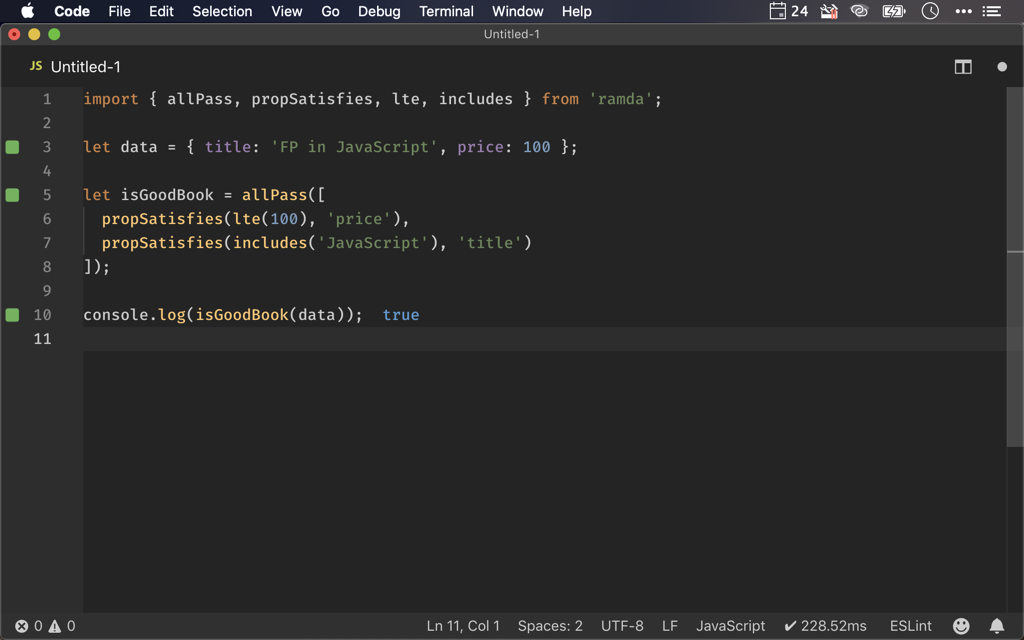
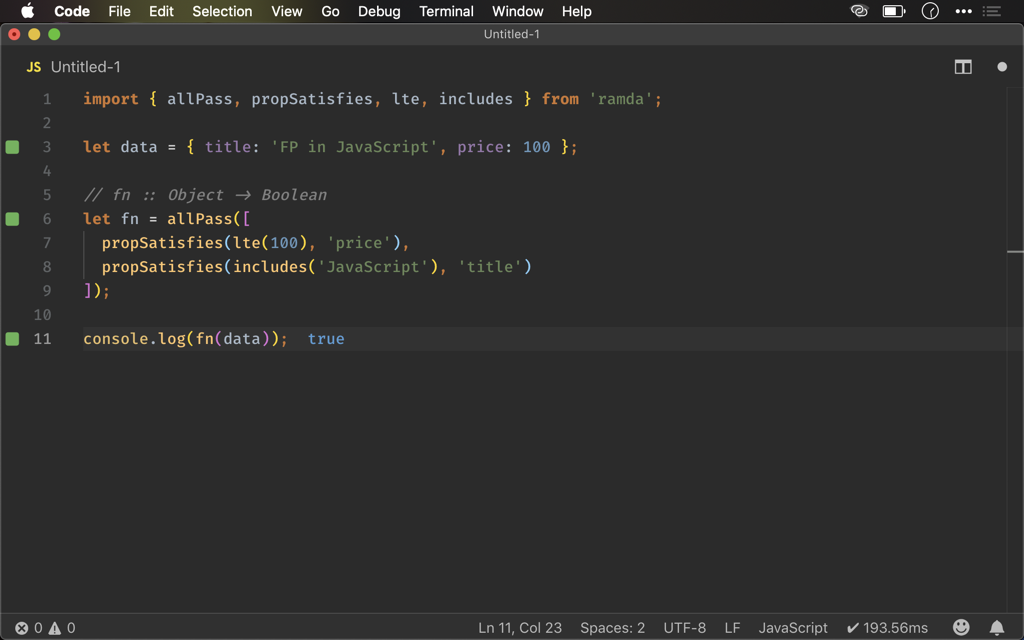
Ramda 之 allPass()

diff --git a/source/_posts/ramda/allpass.md b/source/_posts/ramda/allpass.md
@@ -7,7 +7,7 @@ tags:
   - Ramda/lte
   - Ramda/propSatisfies
 feature: images/feature/ramda.png
-date: 2019-04-11 11:23:43
+date: 2019-05-15 11:23:43
 ---
 Ramda 有 `all()` 並不令人訝異，ECMAScript 也有 `every()`，但 Ramda 又另外提供了 `allPass()`，這與 `all()` 有什麼不同呢 ?
 
@@ -26,12 +26,13 @@ import { allPass, propSatisfies, lte, includes } from 'ramda';
 
 let data = { title: 'FP in JavaScript', price: 100 };
 
-let isGoodBook = allPass([
+// fn :: Object -> Boolean
+let fn = allPass([
   propSatisfies(lte(100), 'price'),
   propSatisfies(includes('JavaScript'), 'title')
 ]);
 
-console.log(isGoodBook(data));
+console.log(fn(data));
 ```
 
 若只要 `price` 大於 `100` 且 `title` 有 `JavaScript`，我們都認為是好書。
@@ -58,12 +59,13 @@ let data = [
   { title: 'Speaking JavaScript', price: 300 }
 ];
 
-let isGoodBook = allPass([
+// fn :: [Object] -> Boolean
+let fn = all(allPass([
   propSatisfies(lte(100), 'price'),
   propSatisfies(includes('JavaScript'), 'title')
-]);
+]));
 
-console.log(all(isGoodBook)(data));
+console.log(fn(data));
 ```
 
 > Q：`all()` 與 `allPass()` 的差別在哪 ?
@@ -89,3 +91,4 @@ console.log(all(isGoodBook)(data));
 [Ramda](https://ramdajs.com), [includes()](https://ramdajs.com/docs/#includes)
 [Ramda](https://ramdajs.com), [lte()](https://ramdajs.com/docs/#lte)
 [Ramda](https://ramdajs.com), [propSatisfies()](https://ramdajs.com/docs/#propSatisfies)
+
